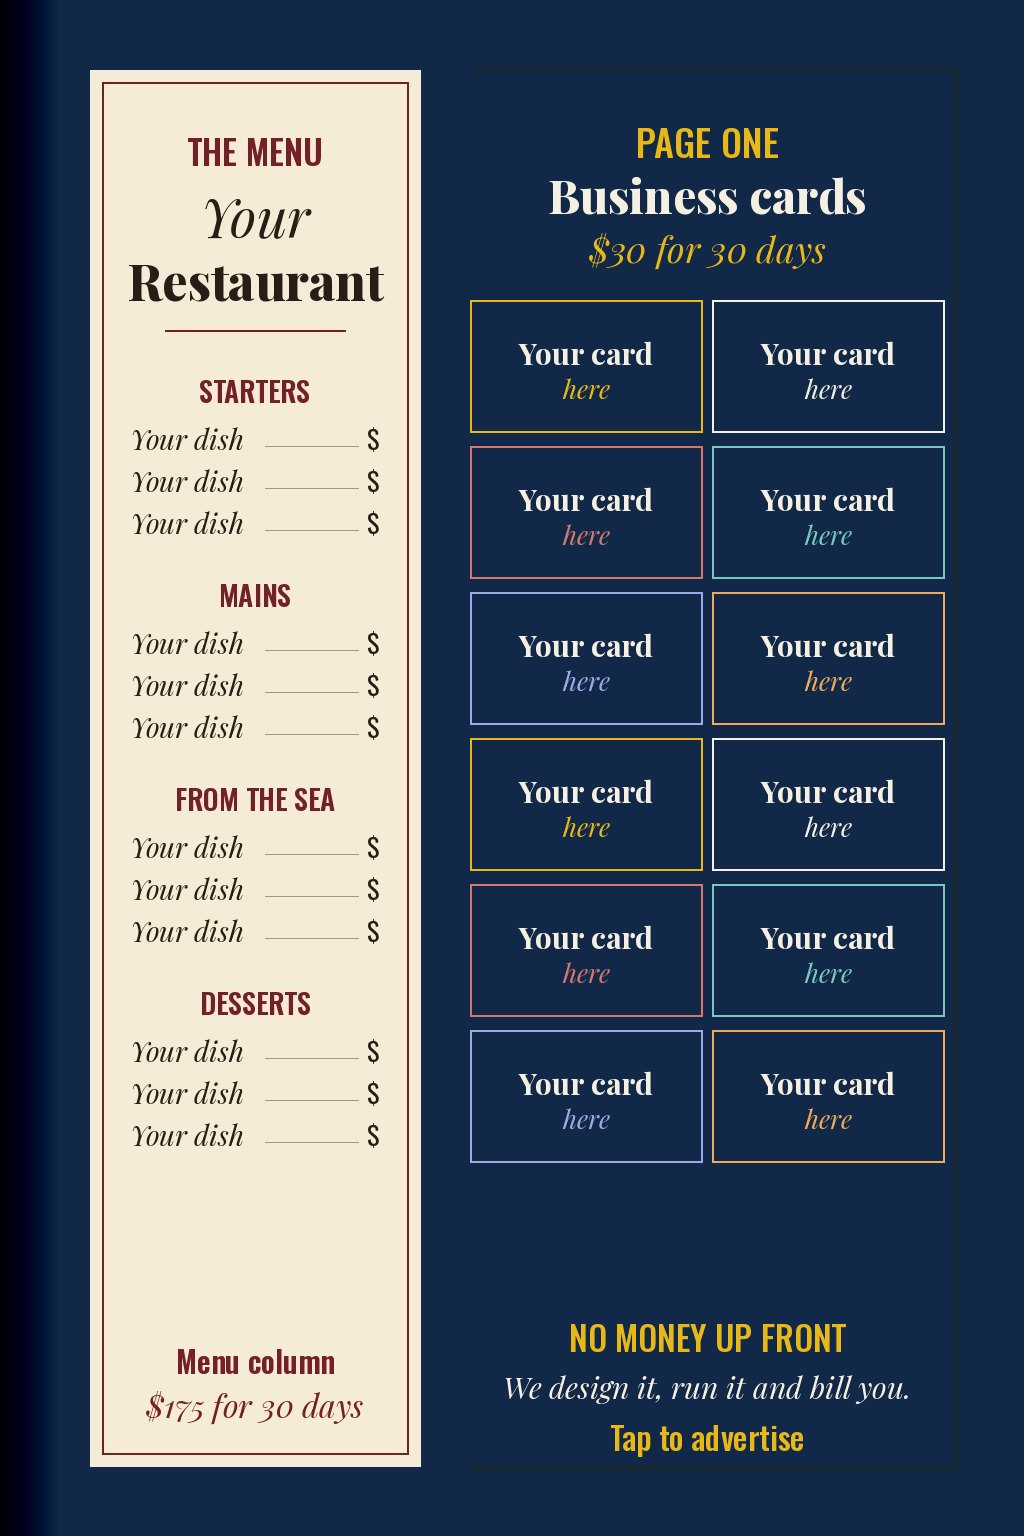
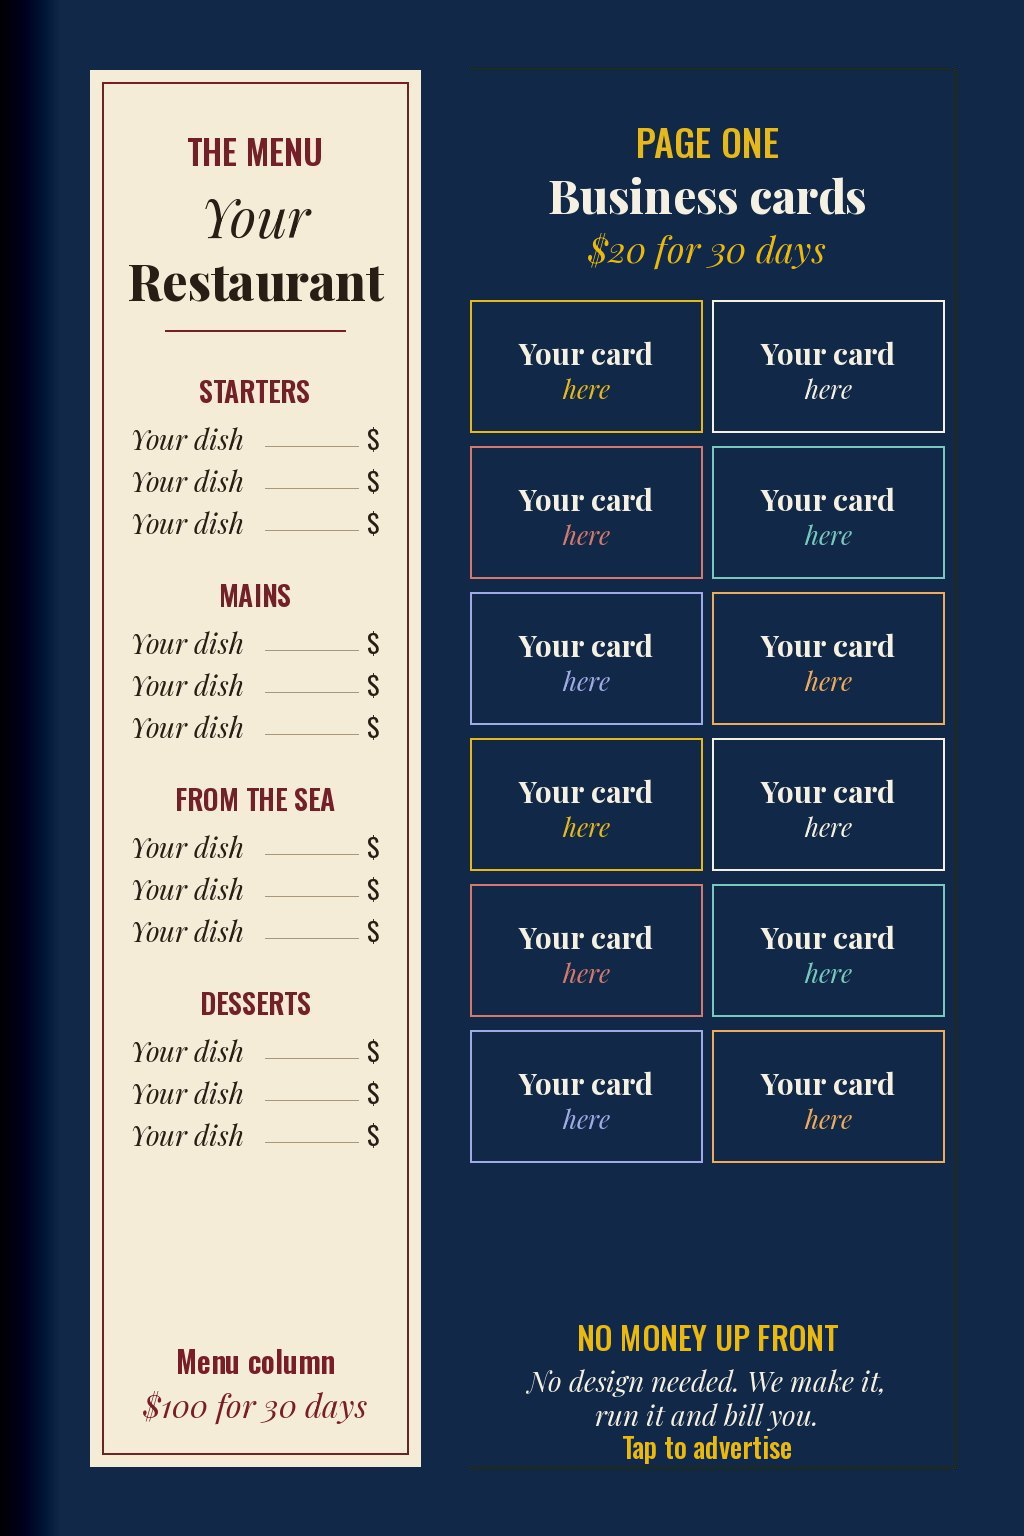
New ad price ladder: business card 20, margin box 30, quarter page 60, menu column 100, back cover 200
Claude-Session: https://claude.ai/code/session_01HzTCsfZS4MqjMgPbRA9Xs3

diff --git a/index.html b/index.html
@@ -1697,9 +1697,9 @@ function vAdvertise(){const ex=[['#19b3a6','Real estate brokers'],['#e8b818','We
   <div style="display:grid;gap:8px;font:400 14px/1.5 var(--body,system-ui);color:#cfd6dc">
   <div style="padding:10px 12px;border:1px solid #2a3442;border-radius:6px"><b style="color:#fff">Margin box</b> · $30 for 30 days<br>Rectangle, 830 × 474 pixels (about 7 × 4 proportion). Rotates through the side boxes on every page.</div>
   <div style="padding:10px 12px;border:1px solid #2a3442;border-radius:6px"><b style="color:#fff">Back of the online cover</b> · $200 for 30 days<br>Full page, 1024 × 1536 pixels (2 × 3 portrait). The cover on our front page flips over every 30 seconds to show your ad.</div>
-  <div style="padding:10px 12px;border:1px solid #2a3442;border-radius:6px"><b style="color:#fff">Inside the cover: business card · $30 for 30 days</b><br>Every other 30 seconds the front-page cover swings open to two pages of ads. Business-card size, 3.5 × 2 proportion.</div>
-  <div style="padding:10px 12px;border:1px solid #2a3442;border-radius:6px"><b style="color:#fff">Inside the cover: quarter page · $99 for 30 days</b><br>Inside front cover, 4 to a page. 2 × 3 portrait.</div>
-  <div style="padding:10px 12px;border:1px solid #2a3442;border-radius:6px"><b style="color:#fff">Inside the cover: menu column · $175 for 30 days</b><br>A long half-page column on page one, made for a restaurant menu and specials.</div>
+  <div style="padding:10px 12px;border:1px solid #2a3442;border-radius:6px"><b style="color:#fff">Inside the cover: business card · $20 for 30 days</b><br>Every other 30 seconds the front-page cover swings open to two pages of ads. Business-card size, 3.5 × 2 proportion.</div>
+  <div style="padding:10px 12px;border:1px solid #2a3442;border-radius:6px"><b style="color:#fff">Inside the cover: quarter page · $60 for 30 days</b><br>Inside front cover, 4 to a page. 2 × 3 portrait.</div>
+  <div style="padding:10px 12px;border:1px solid #2a3442;border-radius:6px"><b style="color:#fff">Inside the cover: menu column · $100 for 30 days</b><br>A long half-page column on page one, made for a restaurant menu and specials.</div>
   <div style="padding:10px 12px;border:1px solid #2a3442;border-radius:6px"><b style="color:#fff">Larger ads</b> · ask us</div></div>
   <div style="display:flex;flex-wrap:wrap;gap:8px">${ex.map(([k,l])=>`<span style="padding:5px 10px;border:1px solid ${k};border-radius:999px;color:${k};font:700 11px/1.2 var(--mono,monospace);letter-spacing:.08em;text-transform:uppercase">${l}</span>`).join('')}</div>
   <div style="display:flex;flex-wrap:wrap;gap:8px"><a class="nb" id="adMail" href="#advertise" style="display:inline-block">Advertise with us →</a><a class="nb" href="#coverage" style="display:inline-block">Request coverage →</a><a class="nb" href="#contact" style="display:inline-block">Contact us →</a></div></div></section>`}
@@ -2341,7 +2341,7 @@ setTimeout(cycle,8000);
 const H=/^(the wire · nightlife|the wire|shows this week|tech & ai wire|scene picks|band watch|venue desk)/i;
 const go=()=>{document.querySelectorAll('#view section.box').forEach(s=>{const b=s.querySelector('.bh b');const g=s.querySelector('.vguide');if((b&&H.test(b.textContent.trim()))||g)s.style.display='none'});document.querySelectorAll('#view .front').forEach(f=>{const st=f.querySelector(':scope>.stack');if(st&&![...st.children].some(c=>c.offsetHeight>0)){st.style.display='none';f.style.gridTemplateColumns='minmax(0,1fr)'}})};
 const V=()=>document.getElementById('view');const st=()=>{const v=V();if(!v)return setTimeout(st,200);go();new MutationObserver(go).observe(v,{childList:true,subtree:true})};
-document.readyState==='loading'?document.addEventListener('DOMContentLoaded',st):st()})();</script><script id="backCover">(()=>{const BK='img/back-cover-ad.jpg?v=2';new Image().src=BK;
+document.readyState==='loading'?document.addEventListener('DOMContentLoaded',st):st()})();</script><script id="backCover">(()=>{const BK='img/back-cover-ad.jpg?v=3';new Image().src=BK;
 const st=document.createElement('style');st.textContent='.cvr .cimg .cback{position:absolute;inset:0;display:none;z-index:6;cursor:pointer;background:#0b1a38}.cvr .cimg .cback img{display:block;width:100%;height:100%;object-fit:cover;animation:none!important;transform:none!important}.cvr .cimg.back .cback{display:block}';document.head.appendChild(st);
 const vidOn=()=>{const v=document.getElementById('irBox');return v&&getComputedStyle(v).display!=='none'&&getComputedStyle(v).opacity!=='0'};
 let busy=false;
@@ -2356,7 +2356,7 @@ function openBook(){const b=document.querySelector('.cvr .cimg');if(!b||busy||do
  busy=true;if(getComputedStyle(cv).position==='static')cv.style.position='relative';
  const r=b.getBoundingClientRect(),c=cv.getBoundingClientRect();const L=r.left-c.left,T=r.top-c.top,w=Math.min(r.width*2,c.right-r.left);
  const s=document.createElement('div');s.className='bkSpread';s.style.cssText='position:absolute;left:'+L+'px;top:'+T+'px;width:'+w+'px;height:'+r.height+'px;z-index:3;display:flex;opacity:0;transition:opacity .5s ease;cursor:pointer;box-shadow:0 18px 40px rgba(0,0,0,.7);border-radius:6px;overflow:hidden';
- s.innerHTML='<img src="img/inside-cover-ad.jpg" alt="Inside front cover ad space" style="width:50%;height:100%;object-fit:cover;display:block"><img src="img/page-one-ad.jpg" alt="Page one ad space" style="width:50%;height:100%;object-fit:cover;display:block">';
+ s.innerHTML='<img src="img/inside-cover-ad.jpg?v=2" alt="Inside front cover ad space" style="width:50%;height:100%;object-fit:cover;display:block"><img src="img/page-one-ad.jpg?v=2" alt="Page one ad space" style="width:50%;height:100%;object-fit:cover;display:block">';
  s.addEventListener('click',e=>{e.preventDefault();e.stopPropagation();close();setTimeout(()=>{try{go('advertise')}catch(_){}},50)});
  cv.appendChild(s);b.style.position='relative';b.style.zIndex='8';b.style.transformOrigin='0 50%';
  requestAnimationFrame(()=>{s.style.opacity='1';b.style.transition='transform 1.1s cubic-bezier(.5,.05,.3,1),opacity .3s ease .8s';b.style.transform='perspective(1600px) rotateY(-110deg)';b.style.opacity='0'});
